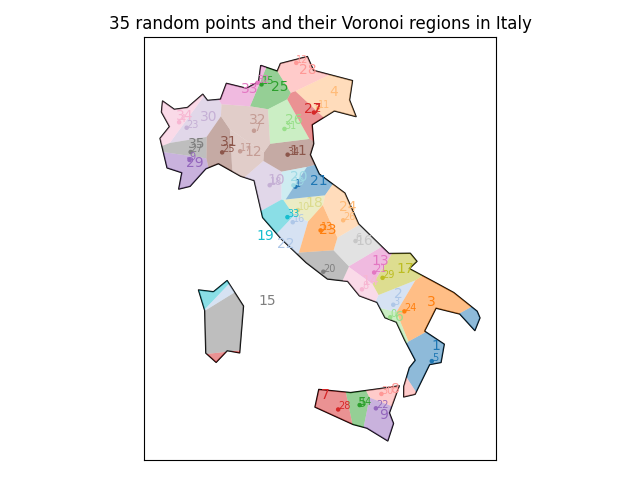
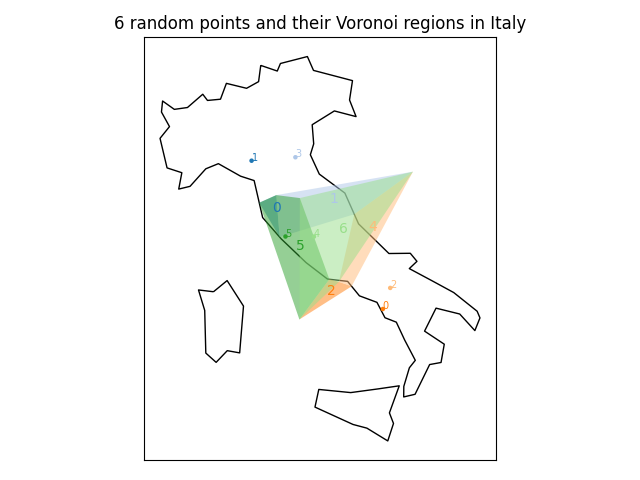
different far point calc. WIP

Changed region(s): [[0.25, 0.0938, 0.75, 0.9375], [0.1562, 0.0312, 0.8438, 0.0625]]

diff --git a/geovoronoi/_voronoi.py b/geovoronoi/_voronoi.py
@@ -16,6 +16,8 @@ from shapely.geometry import LineString, asPoint, MultiPoint, Polygon, MultiPoly
 from shapely.errors import TopologicalError
 from shapely.ops import polygonize, cascaded_union
 
+from ._geom import line_segment_intersection
+
 
 logger = logging.getLogger('geovoronoi')
 logger.addHandler(logging.NullHandler())
@@ -31,7 +33,7 @@ def points_to_coords(pts):
     return np.array([p.coords[0] for p in pts])
 
 
-def voronoi_regions_from_coords(coords, geo_shape, farpoints_max_extend_factor=10):
+def voronoi_regions_from_coords(coords, geo_shape):
     """
     Calculate Voronoi regions from NumPy array of 2D coordinates `coord` that lie within a shape `geo_shape`. Setting
     `shapes_from_diff_with_min_area` fixes rare errors where the Voronoi shapes do not fully cover `geo_shape`. Set this
@@ -65,27 +67,26 @@ def voronoi_regions_from_coords(coords, geo_shape, farpoints_max_extend_factor=1
     logger.info('generated %d Voronoi regions' % (len(vor.regions)-1))
 
     logger.info('generating Voronoi polygon regions')
-    region_polys, region_pts = region_polygons_from_voronoi(vor, geo_shape,
-                                                            return_point_assignments=True,
-                                                            farpoints_max_extend_factor=farpoints_max_extend_factor)
+    region_polys, region_pts = region_polygons_from_voronoi(vor, geo_shape, return_point_assignments=True)
 
     return region_polys, region_pts
 
 
-def region_polygons_from_voronoi(vor, geo_shape, return_point_assignments=False, farpoints_max_extend_factor=10):
+def region_polygons_from_voronoi(vor, geo_shape, return_point_assignments=False):
     if isinstance(geo_shape, Polygon):
-        geoms = geo_shape
+        geoms = [geo_shape]
     elif isinstance(geo_shape, MultiPolygon):
         geoms = geo_shape.geoms
     else:
         raise ValueError('`geo_shape` must be a Polygon or MultiPolygon')
 
-    max_dim_extend = vor.points.ptp(axis=0).max() * farpoints_max_extend_factor
     center = np.array(MultiPoint(vor.points).convex_hull.centroid)
     ridge_vert = np.array(vor.ridge_vertices)
 
     region_pts = defaultdict(list)
     region_polys = {}
+    region_surroundings = {}
+    surroundings_region = defaultdict(list)
     for i_reg, reg_vert in enumerate(vor.regions):
         pt_indices = np.where(vor.point_region == i_reg)[0]
         if len(pt_indices) == 0:  # skip regions w/o points in them
@@ -93,14 +94,17 @@ def region_polygons_from_voronoi(vor, geo_shape, return_point_assignments=False,
 
         region_pts[i_reg].extend(pt_indices.tolist())
 
-        geom = {g for pt in vor.points[pt_indices] for g in geoms if g.contains(pt)}
-        if len(geom) == 0:
+        geom_indices = {i_g for pt in vor.points[pt_indices] for i_g, g in enumerate(geoms) if g.contains(asPoint(pt))}
+        if len(geom_indices) == 0:
             raise RuntimeError('no sub-geometry of `geo_shape` contains a point of %s' % str(vor.points[pt_indices]))
-        elif len(geom) > 1:
+        elif len(geom_indices) > 1:
             raise RuntimeError('more than one sub-geometry of `geo_shape` contains a point of %s'
                                % str(vor.points[pt_indices]))
-        else:
-            geom = geom.pop()
+
+        geom_idx = geom_indices.pop()
+        geom = geoms[geom_idx]
+        surroundings_region[geom_idx].append(i_reg)
+        region_surroundings[i_reg] = geom_idx
 
         if np.all(np.array(reg_vert) >= 0):  # fully finite-bounded region
             p = Polygon(vor.vertices[reg_vert])
@@ -115,6 +119,7 @@ def region_polygons_from_voronoi(vor, geo_shape, return_point_assignments=False,
                     p_vertices.extend(vor.vertices[simplex])
                 else:
                     # "loose ridge": contains infinite Voronoi vertex
+                    # we calculate the far point, i.e. the point of intersection with a surrounding polygon boundary
                     i = simplex[simplex >= 0][0]  # finite end Voronoi vertex
                     finite_pt = vor.vertices[i]
 
@@ -126,20 +131,44 @@ def region_polygons_from_voronoi(vor, geo_shape, return_point_assignments=False,
                     direction = np.sign(np.dot(midpoint - center, n)) * n
                     direction = direction / np.linalg.norm(direction)  # to unit vector
 
-                    far_point = finite_pt + direction * max_dim_extend * farpoints_max_extend_factor
+                    isects = []
+                    for i_ext_coord in range(len(geom.exterior.coords) - 1):
+                        isect = line_segment_intersection(midpoint, direction,
+                                                          np.array(geom.exterior.coords[i_ext_coord]),
+                                                          np.array(geom.exterior.coords[i_ext_coord+1]))
+                        if isect is not None:
+                            isects.append(isect)
 
-                    p_vertices.extend([finite_pt, far_point])
+                    assert isects, 'far point must intersect with surrounding geometry from `geo_shape`'
+
+                    closest_isect_idx = np.argmin(np.linalg.norm(midpoint - isects, axis=1))
+                    p_vertices.extend([finite_pt, isects[closest_isect_idx]])
 
             p = MultiPoint(p_vertices).convex_hull  # Voronoi regions are convex
 
-        assert p.is_valid and p.is_simple, 'generated polygon is valid and simple'
+        assert p.is_valid and p.is_simple and not p.is_empty, 'generated polygon is not valid, not simple or empty'
 
-        if not geo_shape.contains(p):
-            p = p.intersection(geo_shape)
-            assert p.is_valid and p.is_simple, 'generated polygon is valid and simple after ' \
-                                               'intersection with `geo_shape`'
+        if not geom.contains(p):
+            p = p.intersection(geom)
+            assert p.is_valid and p.is_simple and not p.is_empty, 'generated polygon is not valid or not simple or ' \
+                                                                  'empty after  intersection with the surrounding ' \
+                                                                  'geometry from `geo_shape`'
 
         region_polys[i_reg] = p
+
+    for i_reg, p in region_polys.items():
+        surround_geom_idx = region_surroundings[i_reg]
+        union_other_regions = cascaded_union([region_polys[i_other]
+                                              for i_other in surroundings_region[surround_geom_idx]
+                                              if i_reg != i_other])
+        diff = geoms[surround_geom_idx].difference(union_other_regions)
+        if isinstance(diff, MultiPolygon):
+            diff = diff.geoms
+        else:
+            diff = [diff]
+        add = [diff_part for diff_part in diff if p.intersects(diff_part)]
+        if add:
+            region_polys[i_reg] = cascaded_union([p] + add)
 
     if return_point_assignments:
         return region_polys, region_pts

diff --git a/examples/toyexample.py b/examples/toyexample.py
@@ -1,0 +1,35 @@
+import matplotlib.pyplot as plt
+import numpy as np
+
+from shapely.geometry import Polygon
+
+from geovoronoi import voronoi_regions_from_coords
+from geovoronoi.plotting import subplot_for_map, plot_voronoi_polys_with_points_in_area
+
+#%%
+
+points = np.array([[0, 0], [0, 1], [0, 2],
+                   [1, 0], [1, 1], [1, 2],
+                   [2, 0], [2, 1], [2, 2]])
+
+shape = Polygon([[-1, -1], [3, -1], [3, 3], [-1, 3]])
+
+#%%
+
+region_polys, region_pts = voronoi_regions_from_coords(points, shape)
+
+print('Voronoi region to point assignments:')
+print(region_pts)
+
+#%%
+
+fig, ax = subplot_for_map()
+
+plot_voronoi_polys_with_points_in_area(ax, shape, region_polys, points, region_pts,
+                                       point_labels=list(map(str, range(len(points)))),
+                                       voronoi_labels=list(map(str, region_polys.keys())))
+
+ax.set_title('toy example')
+
+plt.tight_layout()
+plt.show()

diff --git a/tests/test_geom.py b/tests/test_geom.py
@@ -21,7 +21,7 @@ from geovoronoi._geom import calculate_polygon_areas, line_segment_intersection
         # parallel
         ([1, 3], [2, 1], [2, 1.5], [4, 2.5], None),
         ([1, 3], [-2, -1], [2, 1.5], [4, 2.5], None),
-        # edge-cases
+        # some edge-cases
         ([0, 0], [0, 1], [0, 0], [0, 1], [0, 0]),
         ([0, 0], [1, 0], [0, 0], [1, 0], [0, 0]),
     ]

diff --git a/examples/random_points_across_italy.py b/examples/random_points_across_italy.py
@@ -25,7 +25,7 @@ geovoronoi_log.propagate = True
 
 #%%
 
-N_POINTS = 100
+N_POINTS = 10
 COUNTRY = 'Italy'
 
 np.random.seed(123)
